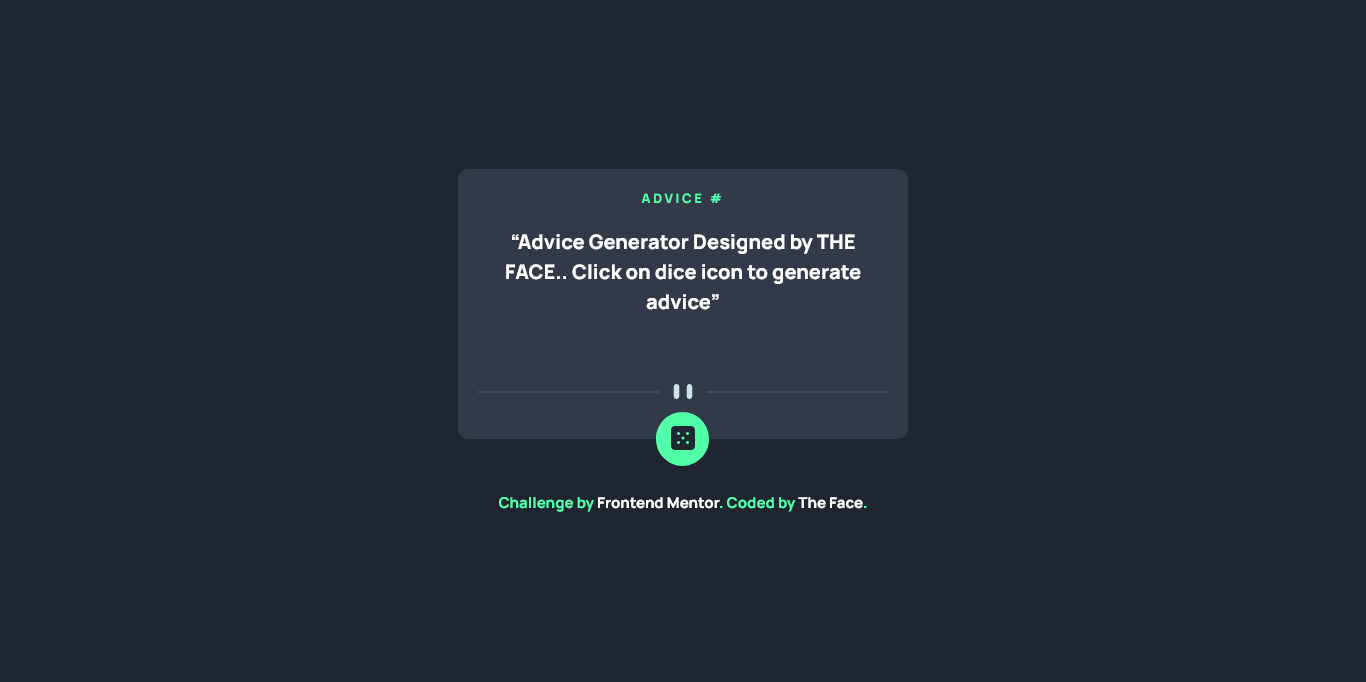
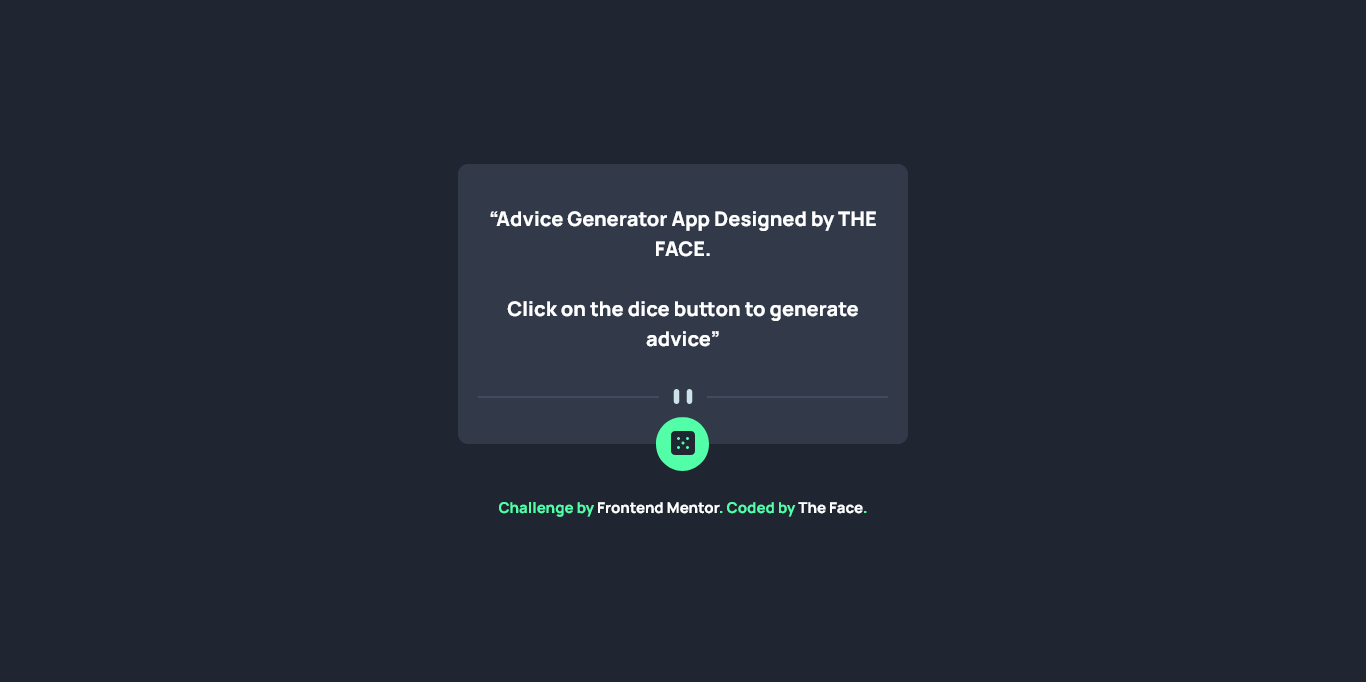
Update

Changed region(s): [[0.3382, 0.2771, 0.6457, 0.4619], [0.369, 0.5543, 0.6457, 0.7698], [0.4612, 0.4927, 0.5227, 0.5235]]

diff --git a/index.html b/index.html
@@ -28,20 +28,20 @@
   <body>
     <main>
       <div class="container">
-        <h1>Advice #<span class="id"></span></h1>
+        <h1></h1>
         <q
-          >Advice Generator Designed by THE FACE.. Click on dice icon to
-          generate advice</q
+          >Advice Generator App Designed by THE FACE. <br /><br />Click on the
+          dice button to generate advice</q
         >
 
         <img
           src="./images/pattern-divider-desktop.svg"
           class="divider"
-          alt=""
+          alt="divider"
         />
       </div>
-      <button class="dice" onclick="getAdvice()">
-        <img src="./images/icon-dice.svg" alt="" />
+      <button class="dice" aria-label="Get Advice" onclick="getAdvice()">
+        <img src="./images/icon-dice.svg" alt="dice" />
       </button>
 
       <div class="attribution">
@@ -66,7 +66,7 @@
               var id = data.slip.id;
               var advice = data.slip.advice;
               document.querySelector("q").innerHTML = advice;
-              document.querySelector("span.id").textContent = id;
+              document.querySelector("h1").innerHTML = `Advice ${id}`;
             })
             .catch(
               (error) => (document.querySelector("q").innerHTML = error.message)

diff --git a/style.css b/style.css
@@ -11,18 +11,22 @@ html {
 }
 
 body {
+  background: hsl(218, 23%, 16%);
+  font-size: ;
+  font-family: Manrope;
+}
+
+main {
   display: flex;
   justify-content: center;
   align-items: center;
   min-height: 100vh;
-  background: hsl(218, 23%, 16%);
   flex-direction: column;
-  font-family: Manrope;
 }
 
 .container {
   width: 45em;
-  height: 27em;
+  height: 28em;
   background: hsl(217, 19%, 24%);
   border-radius: 1em;
   padding: 2em;
